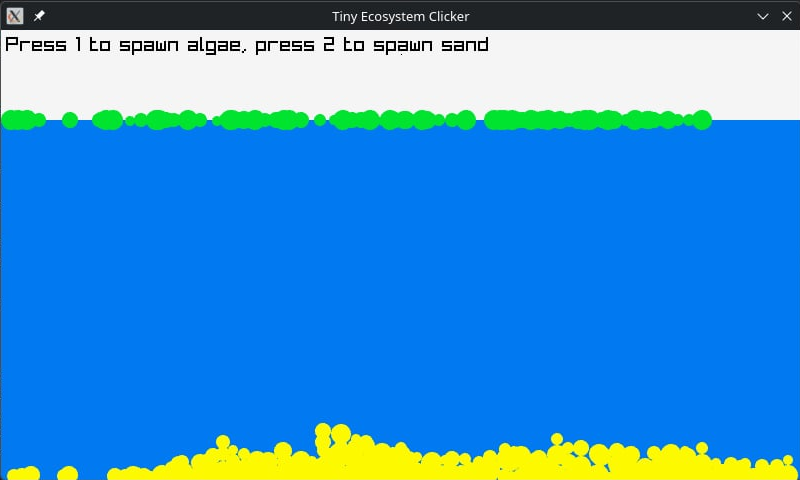
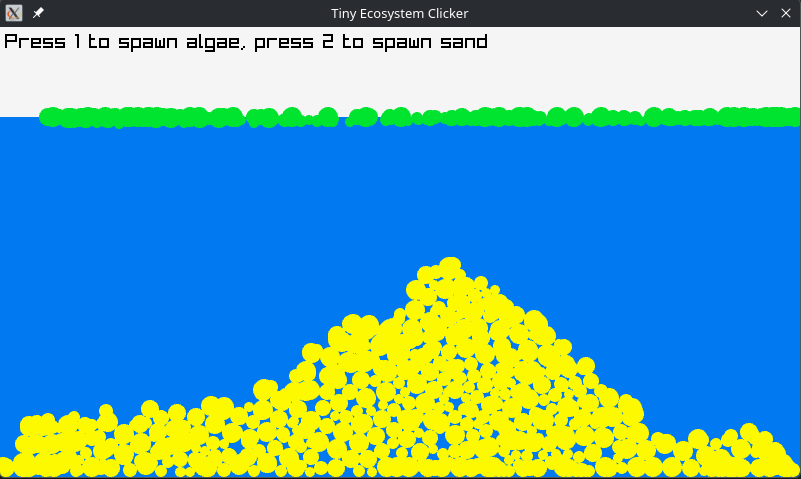
Add ostracods and their behavior

Changed region(s): [[0.0, 0.5261, 1.0, 1.0], [0.0, 0.2046, 1.0, 0.2923], [0.0, 0.0, 1.0, 0.1169]]

diff --git a/src/main.cpp b/src/main.cpp
@@ -1,10 +1,8 @@
-#include <stdlib.h>
+#include "utilities.hpp"
 #include <time.h>
 #include <vector>
 #include <limits>
 #include <iostream>
-#include <math.h>
-#include "raylib.h"
 
 using std::vector;
 
@@ -14,6 +12,10 @@ const int startingWaterLevel = screenHeight * 0.8;
 const float gravity = 0.1f;
 const float minSandFall = 0.5f;
 const float maxParticleRadius = 10.0f;
+const float speedLimit = 1.0f;
+const float saturationFromAlgae = 20.0f;
+
+#define VEC2(X,Y) (Vector2){X,Y}
 
 class Entity{
 public:
@@ -23,17 +25,52 @@ public:
     float radius;
 };
 
+class Ostracod: public Entity{
+    constexpr static Vector2 sizeRange = VEC2(2.0f, 8.0f);
+    constexpr static Vector2 visionRange = VEC2(180.0f, 200.0f);
+    constexpr static Vector2 reactionTimeRange = VEC2(5.0f, 20.0f);
+    constexpr static Vector2 speedRange = VEC2(0.4f, 0.8f);
+public:
+    constexpr static float baseSaturation = 30.0f;
+    float saturation = 0.0f;
+    float vision = 0.0f;
+    float reactionTime = 0.0f;
+    float reactionCooldown = 0.0f;
+    float speed = 0.0f;
+    Ostracod();
+};
+
+Ostracod::Ostracod(){
+    active = true;
+    pos = GetMousePosition();
+    velocity = VEC2(0.0f, 0.0f);
+    saturation = baseSaturation;
+    radius = randomBetween(Ostracod::sizeRange.x, Ostracod::sizeRange.y);
+    vision = randomBetween(Ostracod::visionRange.x, Ostracod::visionRange.y);
+    reactionTime = randomBetween(Ostracod::reactionTimeRange.x, Ostracod::reactionTimeRange.y);
+    speed = randomBetween(Ostracod::speedRange.x, Ostracod::speedRange.y);
+}
+
 class Ecosystem{
     float waterLevel = startingWaterLevel;
     float waterSurfaceY = screenHeight - waterLevel;
     vector<Entity> algaes;
     vector<Entity> sand;
+    vector<Ostracod> ostracods;
 public:
     void init();
-    void updateAlgaes();
-    void updateSand();
+
     void spawnAlgae();
+    void updateAlgaes();
+
     void spawnSand();
+    void updateSand();
+
+    Entity* findFirstVisibleAlgae(const Ostracod & ostracod);
+
+    void spawnOstracods();
+    void updateOstracods();
+
     void update();
     void draw() const;
 };
@@ -42,10 +79,15 @@ void Ecosystem::init(){
 
 }
 
-float getDistance(Vector2 pos1, Vector2 pos2){
-    return std::sqrt(std::pow(pos1.x-pos2.x, 2) + std::pow(pos1.y-pos2.y, 2));
-}
 
+
+void Ecosystem::spawnAlgae(){
+    if(IsKeyDown(KEY_ONE)){
+        algaes.emplace_back();
+        algaes.back().pos = GetMousePosition();
+        algaes.back().radius = 5 + rand() % 6;
+    }
+}
 void Ecosystem::updateAlgaes(){
     for(Entity & algae : algaes){
         //Gravity and buoyancy
@@ -58,6 +100,18 @@ void Ecosystem::updateAlgaes(){
         }
         algae.pos.y += algae.velocity.y;
     }
+}
+
+void Ecosystem::spawnSand(){
+    if(IsKeyDown(KEY_TWO)){
+        sand.emplace_back();
+        sand.back().pos = GetMousePosition();
+        sand.back().radius = 5 + rand() % 6;
+    }
+}
+void settleSand(Entity & sand){
+    sand.velocity.y = 0.0f;
+    sand.active = false;
 }
 void Ecosystem::updateSand(){
     for(size_t current = 0; current < sand.size(); ++current){
@@ -80,14 +134,17 @@ void Ecosystem::updateSand(){
         }
 
         //When sand particles hit the ground, stop them.
-        if(sand[current].pos.y + sand[current].radius / 2 >= screenHeight){
-            sand[current].velocity.y = 0.0f;
-            sand[current].active = false;
+        if(sand[current].pos.y + sand[current].radius >= screenHeight){
+            settleSand(sand[current]);
+            continue;
         }
 
         //Check simple collisions between falling (active) and settled sand particles
         if(sand[current].velocity.y > 0){
+            bool collisionOnTheLeft = false;
+            bool collisionOnTheRight = false;
             for(size_t other = 0; other < sand.size(); ++other){
+                //Ignore itself and other falling sand particles
                 if(other == current || sand[other].active)
                     continue;
 
@@ -95,45 +152,173 @@ void Ecosystem::updateSand(){
                 if(distance > sand[current].radius + sand[other].radius)
                     continue;
 
-                if(std::abs(sand[current].pos.x - sand[other].pos.x) < 1.0f){
-                    sand[current].velocity.y = 0.0f;
-                    sand[current].active = false;
-                }
-                else if(sand[current].pos.x < sand[other].pos.x)
-                    sand[current].pos.x -= 1.0f;
+                if(sand[other].pos.x <= sand[current].pos.x)
+                    collisionOnTheLeft = true;
                 else
-                    sand[current].pos.x += 1.0f;
+                    collisionOnTheRight = true;
+
+                if(collisionOnTheLeft && collisionOnTheRight)
+                    break;
             }
+
+            if(collisionOnTheLeft && collisionOnTheRight){
+                settleSand(sand[current]);
+                continue;
+            }
+            else if(collisionOnTheLeft)
+                sand[current].pos.x += 1.0f;
+            else if(collisionOnTheRight)
+                sand[current].pos.x -= 1.0f;
         }
 
         sand[current].pos.y += sand[current].velocity.y;
     }
 }
 
-void Ecosystem::spawnAlgae(){
-    if(IsKeyDown(KEY_ONE)){
-        algaes.emplace_back();
-        algaes.back().pos = GetMousePosition();
-        algaes.back().radius = 5 + rand() % 6;
+void Ecosystem::spawnOstracods(){
+    if(IsKeyDown(KEY_THREE)){
+        ostracods.emplace_back();
     }
 }
+Entity* Ecosystem::findFirstVisibleAlgae(const Ostracod & ostracod){
+    for(Entity & algea : algaes){
+        float distance = getDistance(ostracod.pos, algea.pos);
+        if(distance <= ostracod.vision)
+            return &algea;
+    }
+    return nullptr;
+}
+void Ecosystem::updateOstracods(){
+    for(size_t current = 0; current < ostracods.size(); ++current){
+        bool underwater = ostracods[current].pos.y >= waterSurfaceY;
 
-void Ecosystem::spawnSand(){
-    if(IsKeyDown(KEY_TWO)){
-        sand.emplace_back();
-        sand.back().pos = GetMousePosition();
-        sand.back().radius = 5 + rand() % 6;
+        if(ostracods[current].active){
+            ostracods[current].saturation -= 0.1f;
+            if(ostracods[current].saturation <= 0){
+                ostracods[current].active = false;
+                continue;
+            }
+
+            //AI
+            if(ostracods[current].reactionCooldown > 0)
+                ostracods[current].reactionCooldown -= 0.1f;
+            else{
+                ostracods[current].reactionCooldown = ostracods[current].reactionTime;
+
+                float speed = ostracods[current].speed;
+                if(!underwater)
+                    speed *= 0.1;
+                Vector2 movement = VEC2(0.0f, 0.0f);
+
+                Entity* visibleAlgae = nullptr;
+                if(ostracods[current].saturation <= Ostracod::baseSaturation)
+                    visibleAlgae = findFirstVisibleAlgae(ostracods[current]);
+
+                if(visibleAlgae == nullptr){ //Move randomly
+                    movement = VEC2(
+                        randomBetween(-speed, speed),
+                        randomBetween(-speed, speed)
+                    );
+                }
+                else{ //Move to algae
+                    movement = VEC2(
+                        visibleAlgae->pos.x - ostracods[current].pos.x,
+                        visibleAlgae->pos.y - ostracods[current].pos.y
+                    );
+                    if(movement.x > 0)
+                        movement.x = std::min(movement.x, speed);
+                    if(movement.x < 0)
+                        movement.x = std::max(movement.x, -speed);
+                    if(movement.y > 0)
+                        movement.y = std::min(movement.y, speed);
+                    if(movement.y < 0)
+                        movement.y = std::max(movement.y, -speed);
+                }
+
+                ostracods[current].velocity.x += movement.x;
+                ostracods[current].velocity.y += movement.y;
+            }
+        }
+        else{
+            if(ostracods[current].velocity.x > 0.1f || ostracods[current].velocity.x < -0.1f)
+                ostracods[current].velocity.x *= 0.99f;
+            else
+                ostracods[current].velocity.x = 0;
+        }
+
+        //Gravity and buoyancy
+        if(!underwater)
+            ostracods[current].velocity.y += gravity * (ostracods[current].radius / maxParticleRadius);
+        else{
+            float buoyancy = 1.0f - (ostracods[current].pos.y - waterSurfaceY) / waterLevel;
+            buoyancy += minSandFall;
+
+            if(ostracods[current].velocity.y == 0){
+                ostracods[current].velocity.y = buoyancy;
+            }
+            ostracods[current].velocity.y = std::min(buoyancy, ostracods[current].velocity.y);
+        }
+
+        if(ostracods[current].velocity.x == 0 && ostracods[current].velocity.y == 0)
+            continue;
+
+        //Limit velocity
+        if(ostracods[current].velocity.x > 0)
+            ostracods[current].velocity.x = std::min(ostracods[current].velocity.x, speedLimit);
+        if(ostracods[current].velocity.x < 0)
+            ostracods[current].velocity.x = std::max(ostracods[current].velocity.x, -speedLimit);
+        if(ostracods[current].velocity.y > 0)
+            ostracods[current].velocity.y = std::min(ostracods[current].velocity.y, speedLimit);
+        if(ostracods[current].velocity.y < 0)
+            ostracods[current].velocity.y = std::max(ostracods[current].velocity.y, -speedLimit);
+
+        Vector2 nextPosition = VEC2(
+            ostracods[current].pos.x + ostracods[current].velocity.x,
+            ostracods[current].pos.y + ostracods[current].velocity.y
+        );
+
+        //Stop ostracods from leaving the aquarium
+        //Floor
+        if(nextPosition.y + ostracods[current].radius >= screenHeight){
+            ostracods[current].velocity.y = 0.0f;
+        }
+        //Right wall
+        if(nextPosition.x + ostracods[current].radius >= screenWidth){
+            ostracods[current].velocity.x = 0.0f;
+        }
+        //Left wall
+        if(nextPosition.x - ostracods[current].radius <= 0){
+            ostracods[current].velocity.x = 0.0f;
+        }
+
+        //Eat one algae
+        if(ostracods[current].active){
+            for(auto algae = algaes.begin(); algae != algaes.end();){
+                float distance = getDistance(ostracods[current].pos, algae->pos);
+                if(distance <= ostracods[current].radius + algae->radius){
+                    algae = algaes.erase(algae);
+                    ostracods[current].saturation += saturationFromAlgae;
+                    break;
+                }
+                else{
+                    ++algae;
+                }
+            }
+        }
+
+        ostracods[current].pos.x += ostracods[current].velocity.x;
+        ostracods[current].pos.y += ostracods[current].velocity.y;
     }
 }
 
 void Ecosystem::update(){
     updateAlgaes();
-
     updateSand();
+    updateOstracods();
 
     spawnAlgae();
-
     spawnSand();
+    spawnOstracods();
 
     // Test: Water evaporation
     // waterLevel -= 0.1f;
@@ -147,6 +332,10 @@ void Ecosystem::draw() const {
     }
     for(const Entity & tinyRock : sand){
         DrawCircle(tinyRock.pos.x, tinyRock.pos.y, tinyRock.radius, YELLOW); 
+    }
+    for(const Ostracod & ostracod : ostracods){
+        //DrawCircleLines(ostracod.pos.x, ostracod.pos.y, ostracod.vision, BLACK); 
+        DrawCircle(ostracod.pos.x, ostracod.pos.y, ostracod.radius, DARKGRAY); 
     }
 }
 
@@ -162,7 +351,7 @@ void draw(const Ecosystem & ecosystem){
     ecosystem.draw();
 
     //Temporary text
-    DrawText("Press 1 to spawn algae, press 2 to spawn sand", 5, 5, 20, BLACK);
+    DrawText("Press 1 to spawn algae\nPress 2 to spawn sand\nPress 3 to spawn ostracod", 5, 5, 20, BLACK);
 
     EndDrawing();
 }

diff --git a/src/utilities.cpp b/src/utilities.cpp
@@ -1,0 +1,9 @@
+#include "utilities.hpp"
+
+float getDistance(Vector2 pos1, Vector2 pos2){
+    return std::sqrt(std::pow(pos1.x-pos2.x, 2) + std::pow(pos1.y-pos2.y, 2));
+}
+
+float randomBetween(float min, float max){
+    return min + ((rand() % 10001) / 10000.0f) * (max - min);
+}

diff --git a/src/utilities.hpp b/src/utilities.hpp
@@ -1,0 +1,7 @@
+#include <stdlib.h>
+#include <math.h>
+#include "raylib.h"
+
+float getDistance(Vector2 pos1, Vector2 pos2);
+
+float randomBetween(float min, float max);

diff --git a/README.md b/README.md
@@ -2,7 +2,7 @@
 
 A small clicker+simulator game written in C++ using Raylib.
 
-# Build
+## Build
 
 To compile this project, make sure you have the following dependencies installed:
 
@@ -14,8 +14,13 @@ Then clone this repository and build the project by running:
 
     make
 
-## Screenshots
+## Features
 
+- Algae - food source, floats in the water.
+- Sand - falls to the bottom of the aquarium. Sand particles collide with each other, forming a substrate.
+- Ostracod - moves in the water in search of food (algae). Can die from starvation.
+
+## Screenshots
 
 Algae and sand
 <br>
